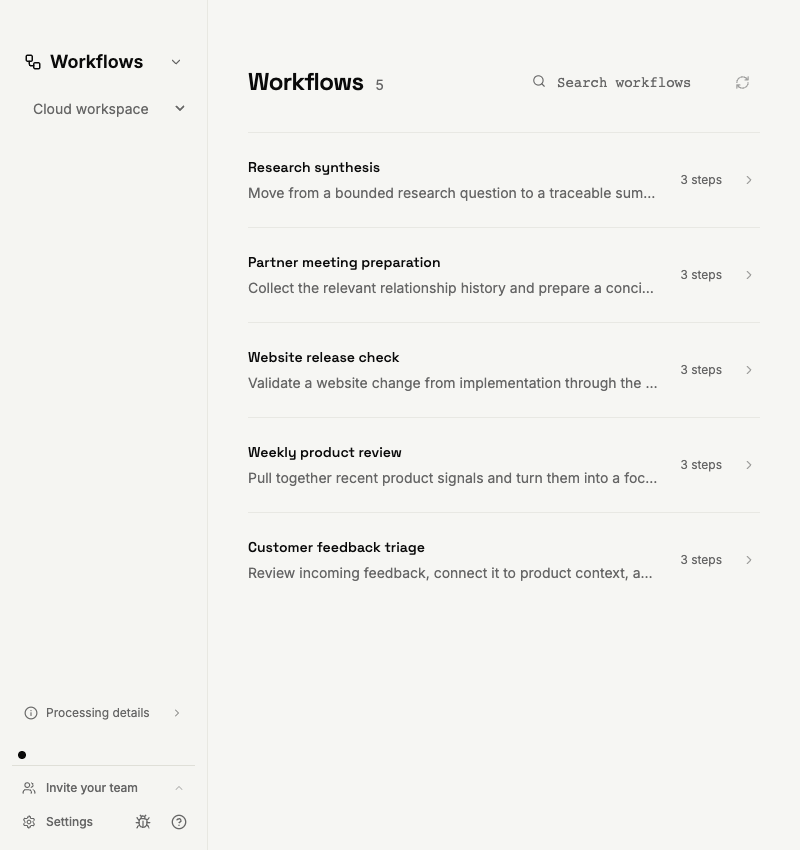
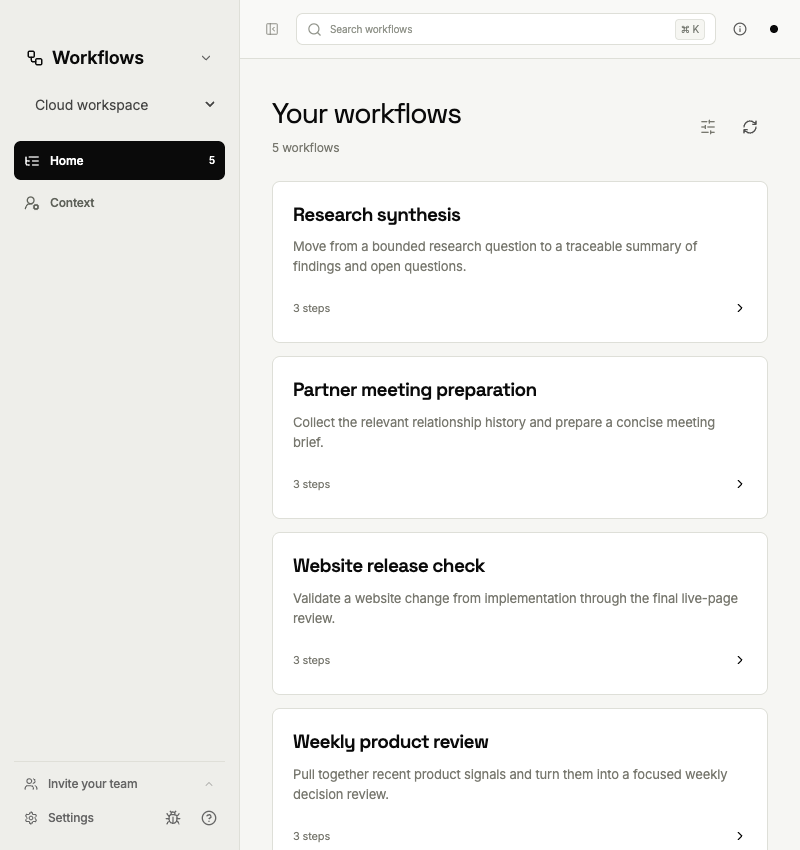
Reuse local Workflows shell, catalog and details for cloud mode

diff --git a/apps/screenpipe-app-tauri/components/workflows/cloud-workflows.tsx b/apps/screenpipe-app-tauri/components/workflows/cloud-workflows.tsx
@@ -1,18 +1,23 @@
 // screenpipe — AI that knows everything you've seen, said, or heard
 // https://screenpipe.com
 "use client";
-import { useEffect, useState } from "react";
-import { RefreshCw, ArrowLeft, Search, ChevronRight, Info } from "lucide-react";
+import { useEffect, useMemo, useState } from "react";
+import { Home, Info, RefreshCw, UserRoundCog, Workflow } from "lucide-react";
 import { Button } from "@/components/ui/button";
-import { Input } from "@/components/ui/input";
 import { loadCloudCatalog, type CloudWorkflowCatalog } from "@/lib/workflows/cloud-catalog";
+import { cloudWorkflowMap } from "@/lib/workflows/cloud-presentation";
 import { stopLocalWorkflowProcessing } from "@/lib/workflows/cloud-processing";
 import { ProductSwitcher, type ProductMode } from "./product-switcher";
-import type { WorkflowsAppProps } from "@screenpipe/workflows-ui";
-import { usePlatform } from "@/lib/hooks/use-platform";
+import { WorkflowsShell, WorkflowCatalog, WorkflowDetails, WorkflowCommandPalette, WorkflowCatalogPlaceholder,
+  defaultWorkflowFilters, type AppView, type WorkflowsPlatform, type WorkflowsAppProps } from "@screenpipe/workflows-ui";
 import { getCurrentWindow } from "@tauri-apps/api/window";
-import { Dialog, DialogContent, DialogHeader, DialogTitle } from "@/components/ui/dialog";
+import { Popover, PopoverContent, PopoverTrigger } from "@/components/ui/popover";
 
+// Details have no mutation or local agent capability in cloud mode.
+const readOnlyPlatform: WorkflowsPlatform = {
+  ensureRuntime: async () => { throw new Error("Cloud view has no local runtime"); },
+  analyzeCapturedWork: async () => { throw new Error("Cloud view cannot start local analysis"); },
+};
 export type CloudWorkflowsServices = {
   load: (token?: string, signal?: AbortSignal) => Promise<CloudWorkflowCatalog>;
   stopLocal: (signal?: AbortSignal) => Promise<void>;
@@ -23,13 +28,13 @@ export function CloudWorkflows({ active, token, onModeChange, recordingStatus, n
   recordingStatus: React.ReactNode; navigationFooter?: WorkflowsAppProps["navigationFooter"];
   api?: CloudWorkflowsServices;
 }) {
-  const { isMac } = usePlatform();
   const [data, setData] = useState<CloudWorkflowCatalog | null>(null);
   const [loading, setLoading] = useState(true);
   const [error, setError] = useState("");
   const [localState, setLocalState] = useState<"checking" | "off" | "error">("checking");
   const [revision, setRevision] = useState(0);
-  const [query, setQuery] = useState("");
+  const [filters, setFilters] = useState(defaultWorkflowFilters);
+  const [view, setView] = useState<AppView>("workflows");
   const [selectedId, setSelectedId] = useState<string | null>(null);
   const [shortcuts, setShortcuts] = useState(false);
   useEffect(() => {
@@ -46,7 +51,7 @@ export function CloudWorkflows({ active, token, onModeChange, recordingStatus, n
       } catch (cause) {
         if (!controller.signal.aborted) {
           // A revoked account must not retain a readable cloud catalog.
-          setData(null); setSelectedId(null);
+          setData(null); setSelectedId(null); setView("workflows");
           setError(cause instanceof Error ? cause.message : "Could not load cloud workflows.");
         }
       } finally { pending = false; if (!controller.signal.aborted) setLoading(false); }
@@ -70,47 +75,45 @@ export function CloudWorkflows({ active, token, onModeChange, recordingStatus, n
     const timer = setInterval(stop, 30_000);
     return () => { controller.abort(); clearInterval(timer); };
   }, [api, revision]);
-  const selected = data?.workflows.find(workflow => workflow.id === selectedId);
-  const workflows = data?.workflows.filter(workflow => `${workflow.title} ${workflow.summary}`.toLowerCase().includes(query.toLowerCase())) ?? [];
-  return <div className="ph-no-capture ph-mask relative flex h-full min-h-0 bg-background text-foreground [&_h1]:font-[family-name:var(--font-workflow-heading)] [&_h2]:font-[family-name:var(--font-workflow-heading)]">
-    <div className="absolute inset-x-0 top-0 h-7" data-tauri-drag-region onMouseDown={event => { if (event.button === 0 && event.target === event.currentTarget) void getCurrentWindow().startDragging().catch(() => {}); }} />
-    <aside style={{ paddingTop: isMac && !fullscreen ? 40 : 28 }} className="flex w-52 shrink-0 flex-col border-r border-border/60 bg-muted/10 p-3 max-sm:w-40">
-      <ProductSwitcher mode="workflows" onChange={onModeChange} />
-      <div className="px-2 pt-2">{sourceControl}</div>
-      <div className="mt-auto">
-        <details className="group mx-2 mb-4 text-xs text-muted-foreground">
-          <summary className="flex cursor-pointer list-none items-center gap-2 rounded px-1 py-2 hover:text-foreground focus-visible:outline-none focus-visible:ring-1 focus-visible:ring-ring"><Info size={14} />Processing details<ChevronRight size={12} className="ml-auto transition-transform group-open:rotate-90" /></summary>
-          <div className="px-1 pb-2 pt-1 leading-relaxed"><p role="status">{localState === "off" ? "Local workflow analysis is off" : localState === "checking" ? "Turning off local workflow analysis…" : "Could not confirm local analysis is off"}</p><p className="mt-2">Workflows update from your cloud workspace. Recording and uploads keep your existing settings.</p></div>
-        </details>
-        {recordingStatus}{navigationFooter?.({ openKeyboardShortcuts: () => setShortcuts(true) })}
-      </div>
-    </aside>
-    <main className="min-w-0 flex-1 overflow-y-auto px-10 pb-12 pt-16 max-sm:px-5">
-      <div className="mx-auto max-w-3xl">
-        {localState === "error" && <div role="alert" className="mb-6 rounded-md border p-4 text-sm">Some local workflow jobs may still be running. <button className="underline" onClick={() => { setLocalState("checking"); setRevision(value => value + 1); }}>Retry stopping local analysis</button></div>}
-        <header className="mb-8 flex flex-wrap items-center justify-between gap-4">
-          {selected ? <Button variant="ghost" size="sm" className="-ml-3" onClick={() => setSelectedId(null)}><ArrowLeft size={14} className="mr-2" />All workflows</Button> : <div className="flex items-baseline gap-3"><h1 className="text-2xl font-semibold tracking-tight">Workflows</h1>{data && !error && <span className="text-sm text-muted-foreground">{data.workflows.length}</span>}</div>}
-          <div className="flex items-center gap-2">
-            {!selected && !error && <div className="relative"><Search size={14} className="absolute left-2 top-2.5 text-muted-foreground" /><Input aria-label="Search cloud workflows" className="h-9 w-48 border-transparent bg-transparent pl-8 shadow-none placeholder:text-muted-foreground focus-visible:border-border max-sm:w-36" placeholder="Search workflows" value={query} onChange={event => setQuery(event.target.value)} /></div>}
-            <Button variant="ghost" size="icon" className="h-9 w-9 text-muted-foreground" aria-label="Refresh" title="Refresh workflows" disabled={loading} onClick={() => { setLocalState("checking"); setRevision(value => value + 1); }}><RefreshCw size={15} className={loading ? "animate-spin motion-reduce:animate-none" : ""} /></Button>
-          </div>
-        </header>
-        {error ? <section role="alert" className="py-10"><h2 className="text-base font-medium">Cloud workflows unavailable</h2><p className="mt-2 max-w-lg text-sm leading-relaxed text-muted-foreground">{error}</p></section>
-        : loading && !data ? <p role="status" className="py-10 text-sm text-muted-foreground">Loading workflows…</p>
-        : selected ? <>
-          <h1 className="text-2xl font-semibold tracking-tight">{selected.title}</h1>
-          <p className="mt-3 max-w-2xl text-sm leading-relaxed text-muted-foreground">{selected.summary}</p>
-          {selected.trigger && <p className="mt-6 text-sm"><span className="text-muted-foreground">Starts when </span>{selected.trigger}</p>}
-          <ol className="mt-8 divide-y divide-border/60 border-y border-border/60">{selected.steps.map((step, index) => <li key={index} className="flex gap-5 py-6"><span className="w-4 shrink-0 pt-0.5 text-xs tabular-nums text-muted-foreground">{index + 1}</span><div><div className="flex flex-wrap items-baseline gap-x-3 gap-y-1"><h2 className="text-sm font-medium">{step.action}</h2>{step.app && <span className="text-xs text-muted-foreground">{step.app}</span>}</div>{step.detail && <p className="mt-2 text-sm leading-relaxed text-muted-foreground">{step.detail}</p>}{step.expected_result && <p className="mt-2 text-sm text-muted-foreground">Expected result: {step.expected_result}</p>}</div></li>)}</ol>
-          {!selected.steps.length && <p className="mt-6 text-sm text-muted-foreground">This workflow does not have documented steps yet.</p>}
-          {selected.outcome && <p className="mt-6 text-sm"><span className="text-muted-foreground">Outcome </span>{selected.outcome}</p>}
-          <p className="mt-8 text-xs text-muted-foreground">Version {selected.version}</p>
-        </> : <>
-          <div className="divide-y divide-border/60 border-t border-border/60">{workflows.map(workflow => <button key={workflow.id} onClick={() => setSelectedId(workflow.id)} className="group flex w-full items-center gap-5 py-6 text-left transition-colors hover:bg-muted/30 focus-visible:outline-none focus-visible:ring-1 focus-visible:ring-inset focus-visible:ring-ring"><div className="min-w-0 flex-1"><h2 className="text-sm font-medium">{workflow.title}</h2><p className="mt-1.5 truncate text-sm text-muted-foreground">{workflow.summary}</p></div><span className="shrink-0 text-xs tabular-nums text-muted-foreground max-sm:hidden">{workflow.steps.length ? `${workflow.steps.length} steps` : "Discovered"}</span><ChevronRight size={14} className="mr-1 shrink-0 text-muted-foreground/60 group-hover:text-foreground" /></button>)}</div>
-          {!workflows.length && <section className="py-16"><h2 className="text-base font-medium">{query ? "No matching workflows" : "No cloud workflows yet"}</h2><p className="mt-2 max-w-md text-sm leading-relaxed text-muted-foreground">{query ? "Try another search." : "Workflows will appear here after your workspace analyzes uploaded activity."}</p></section>}
-        </>}
-      </div>
-    </main>
-    <Dialog open={active && shortcuts} onOpenChange={setShortcuts}><DialogContent><DialogHeader><DialogTitle>Cloud workflows</DialogTitle></DialogHeader><p className="text-sm">Use Tab to move between controls and Enter to open a workflow. Use the workspace menu to return to Chat.</p></DialogContent></Dialog>
-  </div>;
+  const workflows = useMemo(() => data?.workflows.map(cloudWorkflowMap) ?? [], [data]);
+  const selected = workflows.find(workflow => workflow.id === selectedId);
+  const refresh = () => { setLocalState("checking"); setRevision(value => value + 1); };
+  const navigate = (next: AppView) => setView(next === "profile" ? "profile" : next === "workflow" ? "workflow" : "workflows");
+  const openWorkflow = (index: number) => { setSelectedId(workflows[index]?.id ?? null); setView("workflow"); };
+  useEffect(() => {
+    if (!active) return;
+    const onKey = (event: KeyboardEvent) => {
+      if ((event.metaKey || event.ctrlKey) && event.key.toLowerCase() === "k") { event.preventDefault(); setShortcuts(value => !value); }
+    };
+    window.addEventListener("keydown", onKey);
+    return () => window.removeEventListener("keydown", onKey);
+  }, [active]);
+  const commands: Parameters<typeof WorkflowCommandPalette>[0]["commands"] = [
+    { id: "home", label: "Go to Home", detail: "Your workflows", group: "Navigate", icon: Home, action: () => navigate("workflows") },
+    { id: "context", label: "Go to Context", detail: "Workspace context", group: "Navigate", icon: UserRoundCog, action: () => navigate("profile") },
+    { id: "refresh", label: "Refresh cloud workflows", detail: "Load the latest workspace workflows", group: "Actions", icon: RefreshCw, action: refresh },
+    ...workflows.map((workflow, index) => ({ id: workflow.id!, label: workflow.title, detail: "Open workflow", group: "Workflows" as const, icon: Workflow, action: () => openWorkflow(index) })),
+  ];
+  const processing = <Popover><PopoverTrigger asChild><Button variant="ghost" size="icon" aria-label="Processing details" title="Processing details" className="h-8 w-8 text-inherit opacity-70"><Info size={14} /></Button></PopoverTrigger><PopoverContent align="end" className="w-64 text-sm"><p role="status">{localState === "off" ? "Local workflow analysis is off" : localState === "checking" ? "Turning off local workflow analysis…" : "Could not confirm local analysis is off"}</p><p className="mt-2 text-xs leading-relaxed text-muted-foreground">Workflows update from your cloud workspace. Recording and uploads keep your existing settings.</p></PopoverContent></Popover>;
+  const refreshControl = <Button variant="ghost" size="icon" aria-label="Refresh" title="Refresh cloud workflows" disabled={loading} onClick={refresh} className="h-9 w-9 text-inherit opacity-70"><RefreshCw size={16} className={loading ? "animate-spin motion-reduce:animate-none" : ""} /></Button>;
+  return <>
+    <WorkflowsShell view={view} navigate={navigate} runtime={null} workflowCount={workflows.length}
+      query={filters.query} setQuery={query => setFilters(current => ({ ...current, query }))}
+      activeScope={null} scopes={[]} setScope={() => {}} embedded={false} active={active} fullscreen={fullscreen}
+      startWindowDrag={process.env.NEXT_PUBLIC_SCREENPIPE_WEB_DEV === "mock" ? undefined : () => getCurrentWindow().startDragging().catch(() => {})}
+      navigationBrand={<><ProductSwitcher mode="workflows" onChange={onModeChange} /><div className="px-2 pt-2">{sourceControl}</div></>}
+      navigationFooter={navigationFooter} recordingStatus={recordingStatus} toolbarAccessory={processing}
+      openCommandPalette={() => setShortcuts(true)}>
+      {localState === "error" && <div role="alert" className="mb-6 rounded-md border p-4 text-sm">Some local workflow jobs may still be running. <button className="underline" onClick={refresh}>Retry stopping local analysis</button></div>}
+      {view === "profile" ? <section><h1 className="text-2xl font-semibold">Context</h1><p className="mt-3 text-sm opacity-70">Workspace context is not available in this cloud view yet.</p></section>
+        : error ? <section role="alert"><h1 className="text-2xl font-semibold">Cloud workflows unavailable</h1><p className="mt-3 text-sm opacity-70">{error}</p><Button variant="outline" className="mt-4" onClick={refresh}>Refresh</Button></section>
+        : loading && !data ? <WorkflowCatalogPlaceholder />
+        : view === "workflow" && selected ? <WorkflowDetails workflow={selected} platform={readOnlyPlatform} active={active} navigate={navigate} workProfile={null}
+            workflowAgentActions={() => refreshControl} sourceLabel={`Cloud workflow · Version ${selected.revision}`} observationsAvailable={false} canSaveAnswers={false} onAnswersSaved={() => {}} />
+        : <WorkflowCatalog workflows={workflows} knownWorkflowCount={workflows.length} filters={filters} setFilters={setFilters} openWorkflow={openWorkflow}
+            analyze={refresh} analyzing={loading} error="" activityState={{ cycleId: "", items: [], unavailable: false }} refreshControl={refreshControl}
+            emptyState={<section className="py-12"><h2 className="text-lg font-medium">No cloud workflows yet</h2><p className="mt-2 text-sm opacity-70">Workflows will appear here after your workspace analyzes uploaded activity.</p></section>} />}
+    </WorkflowsShell>
+    <WorkflowCommandPalette open={active && shortcuts} commands={commands} close={() => setShortcuts(false)} />
+  </>;
 }

diff --git a/packages/workflows-ui/src/workflows-app.tsx b/packages/workflows-ui/src/workflows-app.tsx
@@ -278,7 +278,7 @@ function Pill({ children, tone = "plain" }: { children: React.ReactNode; tone?: 
   return <span className={`${styles.pill} ${styles[`pill_${tone}`]}`}>{children}</span>;
 }
 
-function CommandPalette({ open, commands, close }: { open: boolean; commands: PaletteCommand[]; close: () => void }) {
+export function CommandPalette({ open, commands, close }: { open: boolean; commands: PaletteCommand[]; close: () => void }) {
   const ui = useGT();
   const [query, setQuery] = useState("");
   const [activeIndex, setActiveIndex] = useState(0);
@@ -355,7 +355,7 @@ function CommandPalette({ open, commands, close }: { open: boolean; commands: Pa
   );
 }
 
-function AppShell({
+export function AppShell({
   view,
   navigate,
   runtime,
@@ -699,7 +699,7 @@ function OverviewView({
   );
 }
 
-function WorkflowsView({ reviewIds, workflows, knownWorkflowCount, filters, setFilters, openWorkflow, analyze, analyzing, error, stop, updatedAt, checkedThrough, changes, job, subscribe, activityState, analysisUnavailableReason }: { reviewIds?: ReadonlySet<string>; activityState: WorkflowActivityState; analysisUnavailableReason?: string; workflows: WorkflowMap[]; knownWorkflowCount: number; filters: WorkflowFilters; setFilters: (filters: WorkflowFilters) => void; openWorkflow: (index: number) => void; analyze: () => void; analyzing: boolean; error: string; stop?: () => void; updatedAt?: string; checkedThrough?: string; changes?: { created: number; updated: number }; job?: WorkflowAnalysisJob | null; subscribe?: WorkflowsPlatform["subscribeAnalysisActivity"] }) {
+export function WorkflowsView({ refreshControl, emptyState, reviewIds, workflows, knownWorkflowCount, filters, setFilters, openWorkflow, analyze, analyzing, error, stop, updatedAt, checkedThrough, changes, job, subscribe, activityState, analysisUnavailableReason }: { refreshControl?: React.ReactNode; emptyState?: React.ReactNode; reviewIds?: ReadonlySet<string>; activityState: WorkflowActivityState; analysisUnavailableReason?: string; workflows: WorkflowMap[]; knownWorkflowCount: number; filters: WorkflowFilters; setFilters: (filters: WorkflowFilters) => void; openWorkflow: (index: number) => void; analyze: () => void; analyzing: boolean; error: string; stop?: () => void; updatedAt?: string; checkedThrough?: string; changes?: { created: number; updated: number }; job?: WorkflowAnalysisJob | null; subscribe?: WorkflowsPlatform["subscribeAnalysisActivity"] }) {
   const ui = useGT();
   const filtersId = useId();
   const [filtersOpen, setFiltersOpen] = useState(false);
@@ -710,6 +710,7 @@ function WorkflowsView({ reviewIds, workflows, knownWorkflowCount, filters, setF
     setFilters({ ...filters, [key]: value });
   }
   const clearFilters = () => setFilters({ ...defaultWorkflowFilters, query: filters.query });
+  const filterButton = workflows.length > 0 && <button type="button" className={styles.quietIconButton} aria-label={filterCount ? ui("Filters ({count})", { count: filterCount }) : ui("Filters")} title={ui("Filters")} aria-expanded={filtersOpen} aria-controls={filtersId} onClick={() => setFiltersOpen(open => !open)}><SlidersHorizontal size={16} />{filterCount > 0 && <span className={styles.filterCount}>{filterCount}</span>}</button>;
 
   return (
     <>
@@ -721,10 +722,10 @@ function WorkflowsView({ reviewIds, workflows, knownWorkflowCount, filters, setF
             {(filterCount > 0 || filters.query) && <button className={styles.clearButton} onClick={() => setFilters(defaultWorkflowFilters)}>{ui("Clear filters")}</button>}
           </div>
         </div>
-        <WorkflowRunProgress activityState={activityState} quiet actions={workflows.length > 0 && <button type="button" className={styles.quietIconButton} aria-label={filterCount ? ui("Filters ({count})", { count: filterCount }) : ui("Filters")} title={ui("Filters")} aria-expanded={filtersOpen} aria-controls={filtersId} onClick={() => setFiltersOpen(open => !open)}><SlidersHorizontal size={16} />{filterCount > 0 && <span className={styles.filterCount}>{filterCount}</span>}</button>} disabledReason={analysisUnavailableReason} job={job} active={analyzing} subscribe={subscribe} stop={stop} analyze={analyze} updatedAt={updatedAt} checkedThrough={checkedThrough} changes={changes} />
+        {refreshControl ? <div className={styles.quietHeaderActions}>{filterButton}{refreshControl}</div> : <WorkflowRunProgress activityState={activityState} quiet actions={filterButton} disabledReason={analysisUnavailableReason} job={job} active={analyzing} subscribe={subscribe} stop={stop} analyze={analyze} updatedAt={updatedAt} checkedThrough={checkedThrough} changes={changes} />}
       </div>
       {error && <p role="alert" className={styles.depthNotice}>{error}</p>}
-      {!knownWorkflowCount ? <EmptyWorkMap analyzing={analyzing} analyze={analyze} /> : !workflows.length ? <section className={styles.emptyState}><Clock3 size={23} /><h2>No known workflows were active in this period</h2><p>Your {knownWorkflowCount} known workflows are still in the catalog. Choose “All known” to see them.</p></section> : <>
+      {!knownWorkflowCount ? (emptyState ?? <EmptyWorkMap analyzing={analyzing} analyze={analyze} />) : !workflows.length ? <section className={styles.emptyState}><Clock3 size={23} /><h2>No known workflows were active in this period</h2><p>Your {knownWorkflowCount} known workflows are still in the catalog. Choose “All known” to see them.</p></section> : <>
         {filtersOpen && <section id={filtersId} aria-label={ui("Workflow filters")} className={styles.filterPanel}>
           <label><span>Evidence quality</span><select value={filters.quality} onChange={(event) => updateFilter("quality", event.target.value as WorkflowFilters["quality"])}><option value="all">Any support level</option><option value="good">Good or stronger</option><option value="strong">Strong only</option></select></label>
           <label><span>Time per run</span><select value={filters.duration} onChange={(event) => updateFilter("duration", event.target.value as WorkflowFilters["duration"])}><option value="all">Any duration</option><option value="short">15 minutes or less</option><option value="medium">16–45 minutes</option><option value="long">More than 45 minutes</option></select></label>
@@ -759,7 +760,7 @@ function WorkflowsView({ reviewIds, workflows, knownWorkflowCount, filters, setF
   );
 }
 
-function CatalogPlaceholder({ detail = false, reconnecting = false, retry }: { detail?: boolean; reconnecting?: boolean; retry?: () => void }) {
+export function CatalogPlaceholder({ detail = false, reconnecting = false, retry }: { detail?: boolean; reconnecting?: boolean; retry?: () => void }) {
   const ui = useGT();
   const bar = (width: string, height = 10) => <span className={styles.skeletonBar} style={{ width, height }} />;
   const message = reconnecting ? ui("Connecting to Screenpipe…") : ui("Loading saved workflows…");
@@ -923,7 +924,7 @@ function screenDataNote(text: string): string {
     .replace(/(^|[.!?]\s+)screen data\b/g, "$1Screen data");
 }
 
-function WorkflowDetail({ canSaveAnswers, composerAccessory, active, onAnswersSaved, workflow, navigate, platform, workProfile, saveCorrection, saveEdits, onShareWorkflow, workflowAgentActions }: { canSaveAnswers: boolean; composerAccessory?: WorkflowsAppProps["composerAccessory"]; active: boolean; onAnswersSaved: (workflow: WorkflowMap) => void; workflow: WorkflowMap | null; navigate: (view: AppView) => void; platform: WorkflowsPlatform; workProfile: WorkProfile | null; saveCorrection?: (note: string) => Promise<void>; saveEdits?: (draft: WorkflowEdit) => Promise<WorkflowMap>; onShareWorkflow?: WorkflowsAppProps["onShareWorkflow"]; workflowAgentActions?: WorkflowsAppProps["workflowAgentActions"] }) {
+export function WorkflowDetail({ sourceLabel, observationsAvailable = true, canSaveAnswers, composerAccessory, active, onAnswersSaved, workflow, navigate, platform, workProfile, saveCorrection, saveEdits, onShareWorkflow, workflowAgentActions }: { sourceLabel?: string; observationsAvailable?: boolean; canSaveAnswers: boolean; composerAccessory?: WorkflowsAppProps["composerAccessory"]; active: boolean; onAnswersSaved: (workflow: WorkflowMap) => void; workflow: WorkflowMap | null; navigate: (view: AppView) => void; platform: WorkflowsPlatform; workProfile: WorkProfile | null; saveCorrection?: (note: string) => Promise<void>; saveEdits?: (draft: WorkflowEdit) => Promise<WorkflowMap>; onShareWorkflow?: WorkflowsAppProps["onShareWorkflow"]; workflowAgentActions?: WorkflowsAppProps["workflowAgentActions"] }) {
   const ui = useGT();
   const [expandedStages, setExpandedStages] = useState<Set<number>>(() => new Set());
   const [guideOpen, setGuideOpen] = useState(false);
@@ -991,7 +992,7 @@ function WorkflowDetail({ canSaveAnswers, composerAccessory, active, onAnswersSa
     <>
       <button className={styles.backButton} onClick={() => navigate("workflows")}><ArrowLeft size={14} />All workflows</button>
       {saveEdits ? <WorkflowEditor key={workflow.id || workflow.title} workflow={workflow} save={saveEdits} actions={workflowActions} renderSource={stage => <WorkflowStepEvidence workflow={workflow} stage={stage} platform={platform} />} /> : <section className={styles.detailHeader}>
-        <div><Pill>Evidence on {workflow.repetitions} captured day{workflow.repetitions === 1 ? "" : "s"}</Pill><h1>{workflow.title}</h1><p>{workflow.description}</p>{workflowActions}</div>
+        <div><Pill>{sourceLabel ?? <>Evidence on {workflow.repetitions} captured day{workflow.repetitions === 1 ? "" : "s"}</>}</Pill><h1>{workflow.title}</h1><p>{workflow.description}</p>{workflowActions}</div>
         {timing ? <div className={styles.detailTotal}><span>{timing.sampleCount > 1 ? ui("Avg. time / run") : ui("Time for one run")}</span><strong>{formatEstimatedMinutes(timing.averageMinutes)}</strong><small>{ui("{count, plural, one {# run} other {# runs}}", { count: timing.sampleCount })} · estimated elapsed time</small></div> : measuredDuration && <div className={styles.detailTotal}><span>Observed meeting duration</span><strong>{workflowDurationLabel(workflow)}</strong></div>}
       </section>}
       <div className={styles.workflowNotes}>
@@ -1009,7 +1010,7 @@ function WorkflowDetail({ canSaveAnswers, composerAccessory, active, onAnswersSa
             return <article key={`${stage.name}-${index}`} className={`${actionableStageFriction ? styles.stageBottleneck : ""} ${constraint ? styles.stageConstraint : ""} ${open ? styles.stageOpen : ""}`}>
               <button className={styles.stageSummary} onClick={() => toggleStage(index)} aria-expanded={open}>
                 <div className={styles.stageNumber}>{index + 1}</div>
-                <div className={styles.stageBody}><div><h3>{stage.name}</h3>{actionableStageFriction && <Pill tone="warm"><AlertTriangle size={11} />Actionable friction</Pill>}{!actionableStageFriction && constraint && <Pill><ShieldCheck size={11} />{controlLabel(constraint)}</Pill>}</div><p>{stage.description}</p><span>{stage.apps.join(" · ") || ui("App not clear")} · {ui("{count, plural, one {# observation} other {# observations}}", { count: stage.observedOccurrences })} across {ui("{count, plural, one {# day} other {# days}}", { count: stage.observedDays })}</span></div>
+                <div className={styles.stageBody}><div><h3>{stage.name}</h3>{actionableStageFriction && <Pill tone="warm"><AlertTriangle size={11} />Actionable friction</Pill>}{!actionableStageFriction && constraint && <Pill><ShieldCheck size={11} />{controlLabel(constraint)}</Pill>}</div><p>{stage.description}</p><span>{stage.apps.join(" · ") || ui("App not clear")}{observationsAvailable && <> · {ui("{count, plural, one {# observation} other {# observations}}", { count: stage.observedOccurrences })} across {ui("{count, plural, one {# day} other {# days}}", { count: stage.observedDays })}</>}</span></div>
                 <ChevronDown className={styles.stageChevron} size={15} />
               </button>
               {open && <div className={styles.stageDisclosure}>
@@ -1032,7 +1033,7 @@ function WorkflowDetail({ canSaveAnswers, composerAccessory, active, onAnswersSa
         </div>
         <div className={styles.flowEndpoint}><span>Ends with</span><strong>{workflow.outcome}</strong></div>
       </section>}
-      <WorkflowQuestions workflow={workflow} active={active} voice={platform.questionnaireVoice} save={canSaveAnswers && platform.saveWorkflowAnswers ? async correction => {
+      {observationsAvailable && <WorkflowQuestions workflow={workflow} active={active} voice={platform.questionnaireVoice} save={canSaveAnswers && platform.saveWorkflowAnswers ? async correction => {
         try {
           const saved = await platform.saveWorkflowAnswers!(workflow, correction);
           onAnswersSaved(saved); return saved;
@@ -1045,7 +1046,7 @@ function WorkflowDetail({ canSaveAnswers, composerAccessory, active, onAnswersSa
           }
           throw error;
         }
-      } : undefined} />
+      } : undefined} />}
       {!!workflow.variations.length && <section className={styles.panel}><h2>Variations</h2><ul className={styles.plainList}>{workflow.variations.map(item => <li key={item}>{item}</li>)}</ul></section>}
       {!!actionableFriction.length && <section><div className={styles.sectionHeading}><div><h2>Friction you can affect</h2></div></div><BottleneckList items={actionableFriction.map((item) => ({ ...item, workflowTitle: workflow.title, repetitions: workflow.repetitions }))} /></section>}
       {!!constraints.length && <section><div className={styles.sectionHeading}><div><h2>External and required constraints</h2></div></div><BottleneckList items={constraints.map((item) => ({ ...item, workflowTitle: workflow.title, repetitions: workflow.repetitions }))} numbered={false} /></section>}

diff --git a/apps/screenpipe-app-tauri/components/workflows/cloud-workflows.test.tsx b/apps/screenpipe-app-tauri/components/workflows/cloud-workflows.test.tsx
@@ -12,30 +12,30 @@ function api(): CloudWorkflowsServices { return { load: vi.fn().mockResolvedValu
 const props = { active: true, onModeChange: vi.fn(), recordingStatus: <button>Recording</button> };
 it("renders cloud detail and search without any local analysis controls", async () => {
   render(<CloudWorkflows {...props} api={api()} />);
-  fireEvent.click(await screen.findByRole('button', { name: /Review a draft/ }));
+  fireEvent.click((await screen.findByRole('heading', { name: 'Review a draft' })).closest('article')!.querySelector('button')!);
   expect(await screen.findByRole('heading', { name: 'Open sources' })).toBeVisible();
-  fireEvent.click(screen.getByText('Processing details'));
+  fireEvent.click(screen.getByRole('button', { name: 'Processing details' }));
   expect(screen.getByText('Local workflow analysis is off')).toBeVisible();
   expect(screen.queryByRole('switch', { name: 'Automatic updates' })).not.toBeInTheDocument();
   fireEvent.click(screen.getByRole('button', { name: 'All workflows' }));
-  fireEvent.change(screen.getByRole('textbox', { name: 'Search cloud workflows' }), { target: { value: 'missing' } });
-  expect(screen.getByText('No matching workflows')).toBeVisible();
+  fireEvent.change(screen.getByRole('textbox', { name: 'Search workflows' }), { target: { value: 'missing' } });
+  expect(screen.getByText('No workflows match these filters')).toBeVisible();
 });
 it("does not claim off until stopping succeeds; retries partial failure", async () => {
   const service = api(); vi.mocked(service.stopLocal).mockRejectedValueOnce(new Error('offline'));
   render(<CloudWorkflows {...props} api={service} />);
   fireEvent.click(await screen.findByRole('button', { name: 'Retry stopping local analysis' }));
-  fireEvent.click(screen.getByText('Processing details'));
+  fireEvent.click(screen.getByRole('button', { name: 'Processing details' }));
   expect(await screen.findByText('Local workflow analysis is off')).toBeVisible();
   expect(service.stopLocal).toHaveBeenCalledTimes(2);
 });
 it("clears a formerly loaded catalog when access is revoked", async () => {
   const service = api(); render(<CloudWorkflows {...props} api={service} />);
-  await screen.findByRole('button', { name: /Review a draft/ });
+  await screen.findByRole('heading', { name: 'Review a draft' });
   vi.mocked(service.load).mockRejectedValue(new Error('Access revoked'));
   fireEvent.click(screen.getByRole('button', { name: 'Refresh', exact: true }));
   expect(await screen.findByText('Access revoked')).toBeVisible();
-  expect(screen.queryByRole('button', { name: /Review a draft/ })).not.toBeInTheDocument();
+  expect(screen.queryByRole('heading', { name: 'Review a draft' })).not.toBeInTheDocument();
 });
 it("keeps empty distinct from error", async () => {
   const service = api(); vi.mocked(service.load).mockResolvedValue({ licenseId: 'org-a', workflows: [] });
@@ -52,4 +52,22 @@ it("aborts requests and discards late results after unmount", async () => {
   view.unmount(); expect(signal.aborted).toBe(true);
   await act(async () => resolve(data));
   expect(screen.queryByText('Review a draft')).not.toBeInTheDocument();
+});
+
+it("uses the local navigation shell, collapse control and command palette", async () => {
+  render(<CloudWorkflows {...props} api={api()} />);
+  await screen.findByRole('heading', { name: 'Your workflows' });
+  expect(screen.getByRole('navigation', { name: 'Primary navigation' })).toHaveTextContent('Home');
+  fireEvent.click(screen.getByRole('button', { name: 'Collapse left sidebar' }));
+  expect(screen.getByRole('button', { name: 'Open left sidebar' })).toHaveAttribute('aria-expanded', 'false');
+  fireEvent.click(screen.getByRole('button', { name: 'Open left sidebar' }));
+  fireEvent.click(screen.getByRole('button', { name: 'Open command palette' }));
+  expect(screen.getByText('Go to Home')).toBeVisible();
+});
+it("does not invent captured observations for cloud procedures", async () => {
+  render(<CloudWorkflows {...props} api={api()} />);
+  fireEvent.click((await screen.findByRole('heading', { name: 'Review a draft' })).closest('article')!.querySelector('button')!);
+  expect(screen.getByText('Cloud workflow · Version 3')).toBeVisible();
+  expect(screen.queryByText(/Evidence on 0 captured/)).not.toBeInTheDocument();
+  expect(screen.queryByText(/0 observations/)).not.toBeInTheDocument();
 });

diff --git a/apps/screenpipe-app-tauri/lib/workflows/cloud-presentation.ts b/apps/screenpipe-app-tauri/lib/workflows/cloud-presentation.ts
@@ -1,0 +1,25 @@
+// screenpipe — AI that knows everything you've seen, said, or heard
+// https://screenpipe.com
+import type { WorkflowMap } from "@screenpipe/workflows-ui";
+import type { CloudWorkflow } from "./cloud-catalog";
+
+/** Map only supplied cloud fields. Missing recordings, timing and observations
+ * stay unknown; the read-only view does not imply they were measured locally. */
+export function cloudWorkflowMap(workflow: CloudWorkflow, index: number): WorkflowMap {
+  const apps = [...new Set(workflow.steps.flatMap(step => step.app ? [step.app] : []))];
+  return {
+    id: workflow.id, revision: workflow.version, rank: index + 1, analysisDays: 0,
+    title: workflow.title, description: workflow.summary, trigger: workflow.trigger ?? "Not documented",
+    outcome: workflow.outcome ?? "Not documented", frequency: workflow.frequency ?? "",
+    repetitions: 0, totalMinutes: 0, activeMinutes: 0, waitingMinutes: 0, durationSource: "unknown",
+    confidence: 0, appSwitches: 0, apps, handoffs: [], variations: [], bottlenecks: [], evidence: [],
+    quality: { grade: "limited", evidenceCount: 0, distinctDays: 0, stageEvidenceCoverage: 0,
+      repeatedStageCoverage: 0, screenshotCount: 0, stageScreenshotCoverage: 0, reasons: [] },
+    stages: workflow.steps.map(step => ({ name: step.action, description: step.detail ?? "",
+      activeMinutes: 0, waitingMinutes: 0, durationSource: "unknown", confidence: 0,
+      observedOccurrences: 0, observedDays: 0, evidence: [], apps: step.app ? [step.app] : [],
+      procedure: [{ kind: "action", text: step.detail || step.action, app: step.app ?? "", quote: "", timestamp: "" },
+        ...(step.expected_result ? [{ kind: "check" as const, text: step.expected_result, app: step.app ?? "", quote: "", timestamp: "" }] : [])],
+    })),
+  };
+}

diff --git a/apps/screenpipe-app-tauri/components/workflows/integrated-workflows.tsx b/apps/screenpipe-app-tauri/components/workflows/integrated-workflows.tsx
@@ -121,7 +121,7 @@ export function IntegratedWorkflows(props: Parameters<typeof DeviceWorkflows>[0]
     finally { setSaving(false); }
   }
   const sourceControl = <label className="flex flex-col gap-2 text-xs"><span className="sr-only">Workflow source</span>
-    <select aria-label="Workflow source" className="w-full rounded-md border border-transparent bg-transparent px-2 py-1.5 text-sm text-muted-foreground hover:bg-muted/40 focus-visible:outline-none focus-visible:ring-1 focus-visible:ring-ring" value={source} disabled={saving} onChange={event => void change(event.target.value as "device" | "cloud")}>
+    <select aria-label="Workflow source" className="w-full rounded-md border border-transparent bg-transparent px-2 py-1.5 text-sm text-inherit opacity-75 hover:opacity-100 hover:bg-muted/40 focus-visible:outline-none focus-visible:ring-1 focus-visible:ring-ring" value={source} disabled={saving} onChange={event => void change(event.target.value as "device" | "cloud")}>
       <option value="cloud">Cloud workspace</option><option value="device">This device</option>
     </select>
     {error && <span role="alert">{error}</span>}

diff --git a/packages/workflows-ui/src/index.ts b/packages/workflows-ui/src/index.ts
@@ -1,7 +1,7 @@
 // screenpipe — AI that knows everything you've seen, said, or heard
 // https://screenpipe.com
 
-export { WorkflowsApp } from "./workflows-app";
+export { WorkflowsApp, AppShell as WorkflowsShell, WorkflowsView as WorkflowCatalog, WorkflowDetail as WorkflowDetails, CommandPalette as WorkflowCommandPalette, CatalogPlaceholder as WorkflowCatalogPlaceholder } from "./workflows-app";
 export { WorkflowReplay } from "./workflow-replay";
 export { WorkflowAssistant } from "./workflow-assistant";
 export * from "./catalog";

diff --git a/apps/screenpipe-app-tauri/README.md b/apps/screenpipe-app-tauri/README.md
@@ -40,6 +40,10 @@ The device license alone cannot read cloud data. Employee sign-in without scoped
 workflow access shows an access message; this UI does not expand server permissions.
 
 Cloud mode displays generated SOP workflows and the discovered workflow inventory.
+Both sources render the shared Workflows navigation shell, catalog cards, filters,
+command palette and detail view. Cloud adds a read-only data adapter and processing
+status; it has no local model or analysis controls. Cloud context is unavailable
+until the API exposes it, and missing observation counts remain unknown.
 It disables local workflow schedules, stops active workflow jobs, and checks their
 status before reporting local analysis off. Older workflow schedules are included.
 It retries while the recorder reconnects. Recording, uploads, and unrelated tasks
@@ -54,9 +58,12 @@ CLOUD_WORKFLOWS_URL=http://127.0.0.1:1420 bun apps/screenpipe-workflows-web/scri
 ```
 
 The eval covers source switching, local updates staying off, workflow details,
-search, compact layout, empty results, and denied access. It selects Light through
+search, matching local/cloud sidebar bounds, collapse/reopen, keyboard navigation,
+the host light/dark setting, compact layout, empty results, and denied access. It selects themes through
 the app's Appearance settings. Known Next.js development warnings from that settings
-route are logged; development-tool badges are omitted from captures.
+route are logged; development-tool badges are omitted from captures. The existing
+shared Workflows shell uses its light palette under either host theme; this change
+does not introduce a separate cloud palette.
 
 ## fast browser UI development
 
